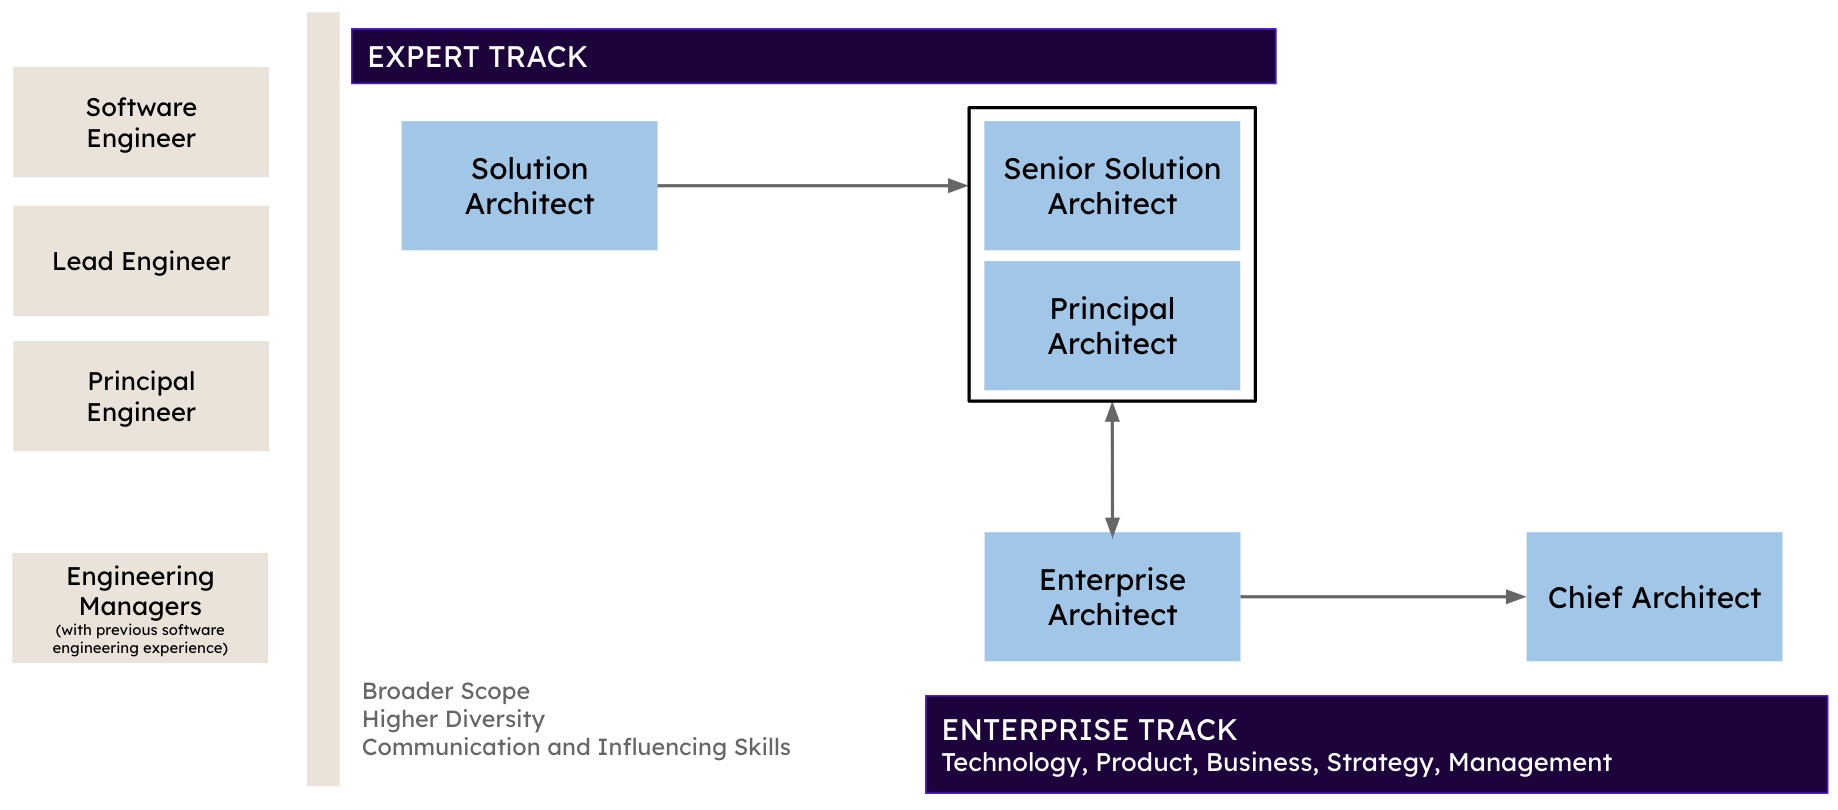
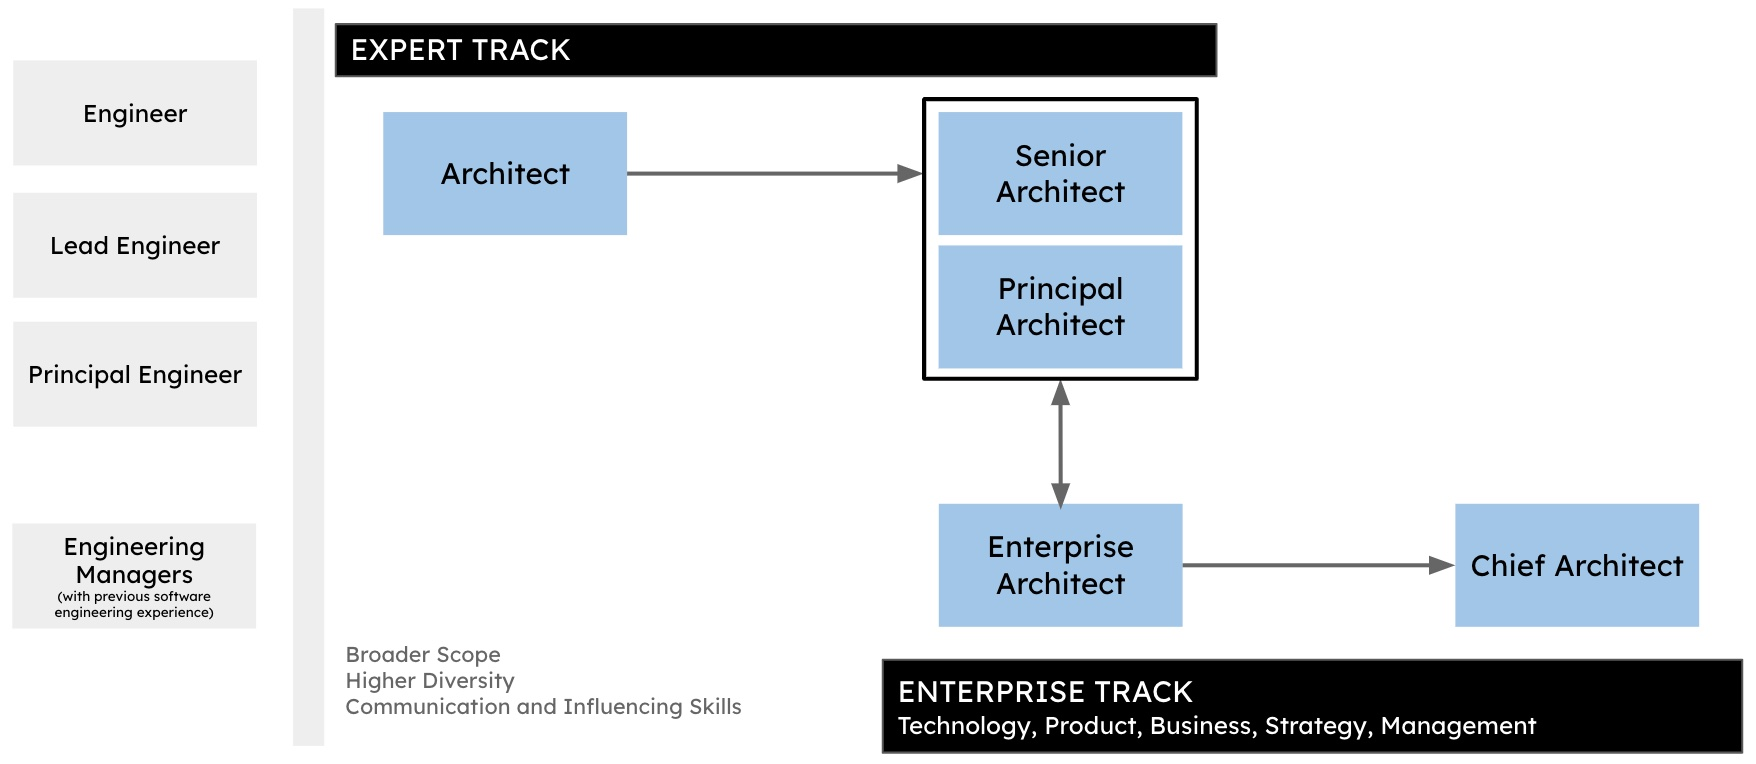
publishing changes

diff --git a/_site/superglue.html b/_site/superglue.html
@@ -216,14 +216,9 @@
 <p><br /></p>
 <h2 id="superglue-architects-career-paths">Superglue Architect’s Career Paths</h2>
 
-<p>My view of architecture has a strong engineering bias. Architects’ career paths ideally stem from a strong engineering background. While they may be exceptions, without significant real-world exposure to software engineering challenges, an architect cannot obtain enough practical knowledge to make technology decisions and build relations with developer teams.</p>
+<p>My view of architecture has a strong engineering bias. Architects’ career paths ideally stem from a strong engineering background. While they may be exceptions, without significant real-world exposure to software engineering challenges, an architect cannot obtain enough practical knowledge to make technology decisions and build relations with developer teams. I also use Staff Engineering roles as an inspiration for the development of architects. For instance, Will Larson’s book <a href="https://staffeng.com/guides/staff-archetypes/">Staff Engineer: Leadership beyond the management track</a> is a helpful guide in defining the responsibilities of modern architects.</p>
 
-<p>Figure 4 shows an example of architecture career paths in relation to engineering. Stepping from an engineering positions to an architecture requires three changes:</p>
-<ul>
-  <li>Broader scope of work,</li>
-  <li>Higher diversity of work, and</li>
-  <li>Communication and influencer skills becoming a crucial aspect of success.</li>
-</ul>
+<p>In terms of career progression, Figure 4 shows an example of architecture career paths in relation to engineering.</p>
 
 <!-- ![](assets/images/aRCH/Female-Pole-Vault.jpg)
 ![](assets/images/arch/athletics-symbols.jpg)
@@ -233,6 +228,20 @@ Credit: dreamstime.com
 
 <p><img src="assets/images/arch/career-paths.jpg" alt="" />
 <em><strong>Figure 4:</strong> An example of architecture career paths in relation to engineering.</em></p>
+
+<p>Stepping from an engineering position to an architecture requires three changes:</p>
+<ul>
+  <li>Getting a broader scope of work,</li>
+  <li>Having a higher diversity of work, and</li>
+  <li>Changing skills, as communication and influencer skills become crucial aspects of success.</li>
+</ul>
+
+<p>After becoming Architects, I usually envision three tracks of progression:</p>
+<ul>
+  <li><strong>Senior Architect</strong>, a generalist with a broader set of responsibilities,</li>
+  <li><strong>Principal Architect</strong>, a world-class expert in some area of strategic interest for an organization (e.g., data, distributed systems, frontend).</li>
+  <li><strong>Enterprise Architect</strong>, being closer to product, management, strategy, and business functions, frequently serves as senior engineering leaders’ right hand.</li>
+</ul>
 
 <p><br /></p>
 <h2 id="hiring-superglue-architects-rising-the-bar">Hiring Superglue Architects: Rising The Bar</h2>

diff --git a/_site/bookshelf.html b/_site/bookshelf.html
@@ -230,7 +230,7 @@ effective architectures for information systems.
 <b>Staff Engineer</b> by Will Larson, defined technical leadership beyond the management track. I share many of the views presented in this book regarding development and skills of architects. 
 </td>
 <td style="font-size: 50%; line-height: 12px; text-align: center">
-<a target="_blank" href="https://staffeng.com/">
+<a target="_blank" href="https://staffeng.com/guides/">
 <img src="assets/icons/web.png" class="icon" /><div>reading notes</div>
 </a>
 </td>
